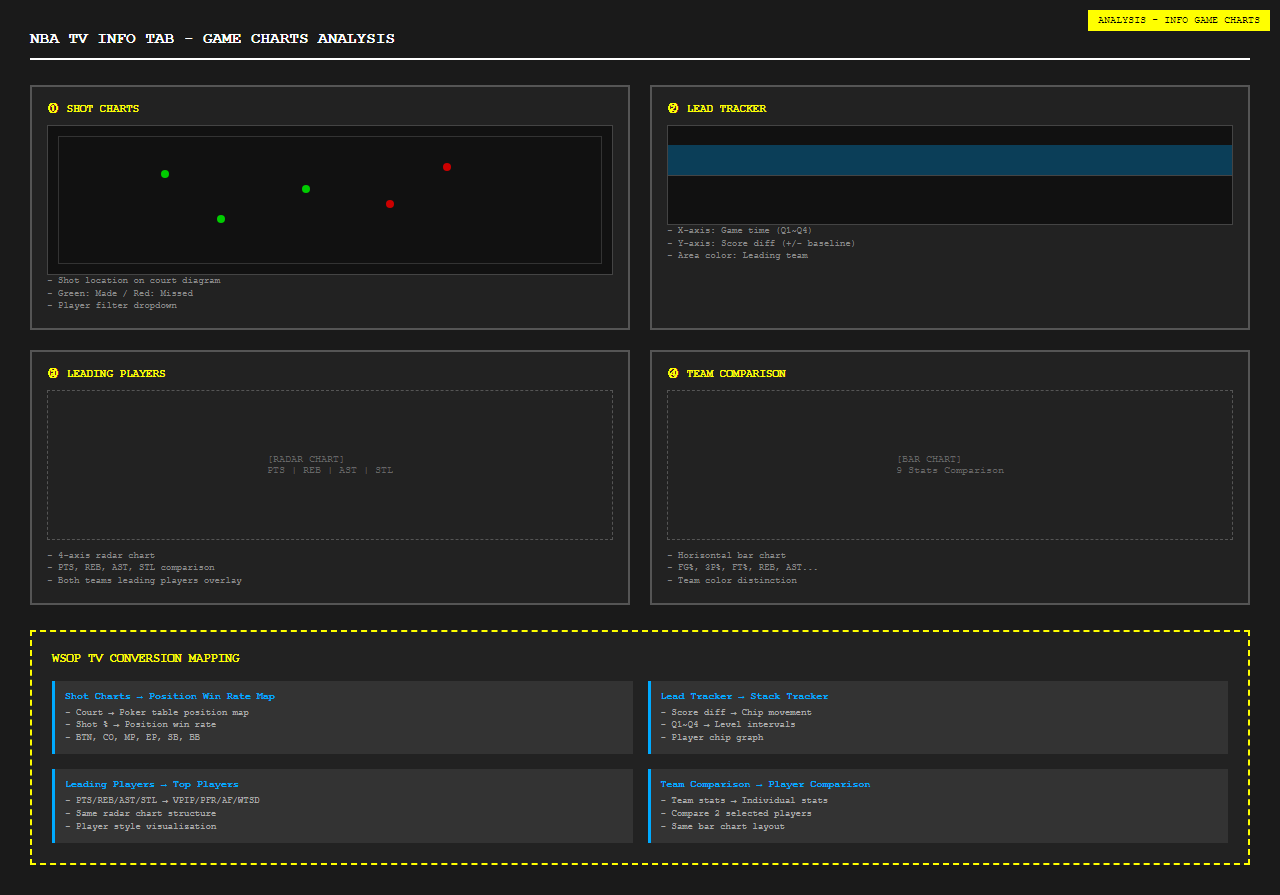
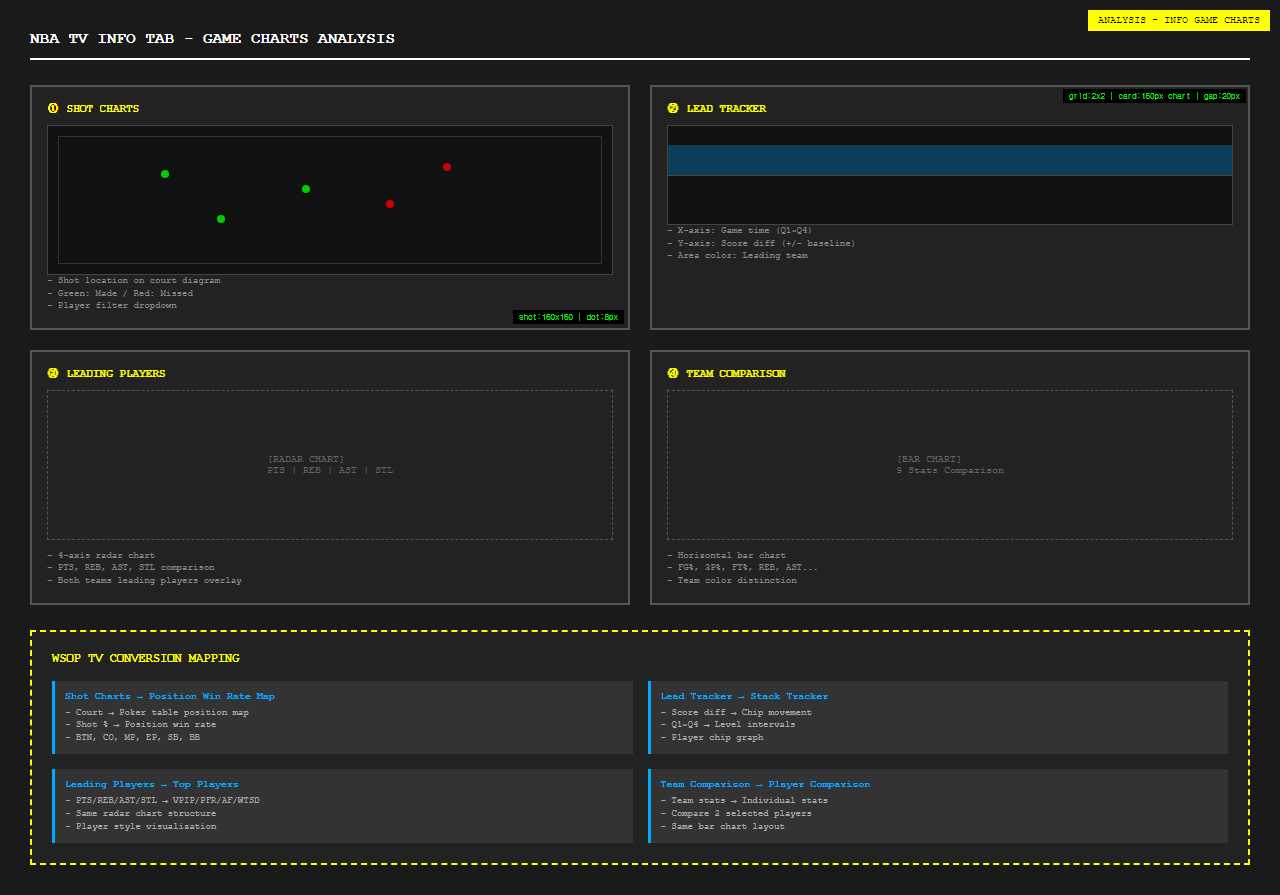
feat(mockups): 나머지 분석 목업에 픽셀 크기 오버레이 추가 📐
- 04-multiview-selector: label:30px | btn:40x40 | gap:5px
- 05-multiview-layout: grid:50%/50% | h:70vh | gap:4px
- 07-info-boxscore: 18cols | row:30px | tab:35px
- 08-info-gamecharts: grid:2x2 | card:150px chart
- 09-info-playbyplay: tab:35px | opt:35px | row:40px
- 10-modal-keyplays: modal:400px | header:45px | thumb:100x60
- 11-keyplays-player: video:250px | ctrl:50px | nav-btn:40px
- 12-player-controls: btn:45x45 | play:44x44 | ctrl:36x36

diff --git a/docs/mockups/nbatv-analysis/05-multiview-layout-analysis.html b/docs/mockups/nbatv-analysis/05-multiview-layout-analysis.html
@@ -118,6 +118,19 @@
       border: 1px solid #fff;
     }
 
+    /* ========== PIXEL SIZE LABELS ========== */
+    .px-label {
+      position: absolute;
+      background: #000;
+      color: #0f0;
+      padding: 2px 6px;
+      font-size: 9px;
+      font-family: monospace;
+      z-index: 300;
+      white-space: nowrap;
+    }
+    .px-label.inner { top: 4px; right: 4px; }
+
     /* ========== SECTION OVERLAYS ========== */
     .page-wrapper {
       position: relative;
@@ -309,9 +322,11 @@
       <em style="color:#666">WSOP: Same Structure</em>
     </div>
 
-    <div class="multiview-container">
+    <div class="multiview-container" style="position:relative;">
+      <div class="px-label inner">grid:50%/50% | h:70vh | gap:4px | bottom:70px</div>
       <!-- Main Video -->
-      <div class="video-cell">
+      <div class="video-cell" style="position:relative;">
+        <div class="px-label" style="top:auto;bottom:4px;right:4px;">cell-header:45px | cta:40px</div>
         <div class="cell-header">
           <div class="cell-title">CLIPPERS @ BULLS</div>
           <div class="cell-subtitle">Bulls (In-Arena) ⏱</div>

diff --git a/docs/mockups/nbatv-analysis/08-info-gamecharts-analysis.html b/docs/mockups/nbatv-analysis/08-info-gamecharts-analysis.html
@@ -136,6 +136,19 @@
       color: #aaa;
       line-height: 1.4;
     }
+
+    /* ========== PIXEL SIZE LABELS ========== */
+    .px-label {
+      position: absolute;
+      background: #000;
+      color: #0f0;
+      padding: 2px 6px;
+      font-size: 9px;
+      font-family: monospace;
+      z-index: 300;
+      white-space: nowrap;
+    }
+    .px-label.inner { top: 4px; right: 4px; }
   </style>
 </head>
 <body>
@@ -143,9 +156,11 @@
 
   <div class="page-title">NBA TV INFO TAB - GAME CHARTS ANALYSIS</div>
 
-  <div class="charts-grid">
+  <div class="charts-grid" style="position:relative;">
+    <div class="px-label inner">grid:2x2 | card:150px chart | gap:20px</div>
     <!-- Shot Charts -->
-    <div class="chart-card">
+    <div class="chart-card" style="position:relative;">
+      <div class="px-label" style="top:auto;bottom:4px;right:4px;">shot:150x150 | dot:8px</div>
       <div class="chart-title">① SHOT CHARTS</div>
       <div class="shot-chart">
         <div class="court-outline"></div>

diff --git a/docs/mockups/nbatv-analysis/07-info-boxscore-analysis.html b/docs/mockups/nbatv-analysis/07-info-boxscore-analysis.html
@@ -134,6 +134,19 @@
     .legend-color.player { background: rgba(0,170,255,0.3); }
     .legend-color.scoring { background: rgba(0,204,0,0.3); }
     .legend-color.other { background: rgba(255,136,0,0.3); }
+
+    /* ========== PIXEL SIZE LABELS ========== */
+    .px-label {
+      position: absolute;
+      background: #000;
+      color: #0f0;
+      padding: 2px 6px;
+      font-size: 9px;
+      font-family: monospace;
+      z-index: 300;
+      white-space: nowrap;
+    }
+    .px-label.inner { top: 4px; right: 4px; }
   </style>
 </head>
 <body>
@@ -142,7 +155,8 @@
   <div class="page-title">NBA TV INFO TAB - BOX SCORE TABLE ANALYSIS</div>
 
   <div class="content-grid">
-    <div class="diagram-panel">
+    <div class="diagram-panel" style="position:relative;">
+      <div class="px-label inner">18cols | row:30px | tab:35px | cell:4-8px pad</div>
       <div class="panel-title">BOX SCORE TABLE STRUCTURE</div>
 
       <div class="team-tabs">

diff --git a/docs/mockups/nbatv-analysis/10-modal-keyplays-analysis.html b/docs/mockups/nbatv-analysis/10-modal-keyplays-analysis.html
@@ -133,6 +133,20 @@
       color: #aaa;
       line-height: 1.4;
     }
+
+    /* ========== PIXEL SIZE LABELS ========== */
+    .px-label {
+      position: absolute;
+      background: #000;
+      color: #0f0;
+      padding: 2px 6px;
+      font-size: 9px;
+      font-family: monospace;
+      z-index: 300;
+      white-space: nowrap;
+    }
+    .px-label.inner { top: 4px; right: 4px; }
+
     /* Card Structure Diagram */
     .card-structure {
       margin-top: 15px;
@@ -166,7 +180,8 @@
   <div class="page-title">NBA TV KEY PLAYS MODAL - STRUCTURE ANALYSIS</div>
 
   <div class="content-grid">
-    <div class="diagram-panel">
+    <div class="diagram-panel" style="position:relative;">
+      <div class="px-label inner">modal:400px | header:45px | card:80px | thumb:100x60</div>
       <div class="panel-title">KEY PLAYS MODAL UI</div>
 
       <div class="modal-header">

diff --git a/docs/mockups/nbatv-analysis/04-multiview-selector-analysis.html b/docs/mockups/nbatv-analysis/04-multiview-selector-analysis.html
@@ -115,6 +115,19 @@
       border: 1px solid #fff;
     }
 
+    /* ========== PIXEL SIZE LABELS ========== */
+    .px-label {
+      position: absolute;
+      background: #000;
+      color: #0f0;
+      padding: 2px 6px;
+      font-size: 9px;
+      font-family: monospace;
+      z-index: 300;
+      white-space: nowrap;
+    }
+    .px-label.inner { top: 4px; right: 4px; }
+
     /* ========== SECTION OVERLAYS ========== */
     .selector-wrapper {
       position: relative;
@@ -226,7 +239,8 @@
       <em style="color:#666">WSOP: Multi-Table View Selector</em>
     </div>
 
-    <div class="multiview-selector">
+    <div class="multiview-selector" style="position:relative;">
+      <div class="px-label inner">label:30px | btn:40x40 | gap:5px</div>
       <div class="selector-label">MultiView</div>
       <div class="layout-buttons">
         <button class="layout-btn">

diff --git a/docs/mockups/nbatv-analysis/12-player-controls-analysis.html b/docs/mockups/nbatv-analysis/12-player-controls-analysis.html
@@ -139,6 +139,19 @@
       color: #0c0;
       font-style: italic;
     }
+
+    /* ========== PIXEL SIZE LABELS ========== */
+    .px-label {
+      position: absolute;
+      background: #000;
+      color: #0f0;
+      padding: 2px 6px;
+      font-size: 9px;
+      font-family: monospace;
+      z-index: 300;
+      white-space: nowrap;
+    }
+    .px-label.inner { top: 4px; right: 4px; }
   </style>
 </head>
 <body>
@@ -147,7 +160,8 @@
   <div class="page-title">NBA TV PLAYER CONTROLS - BUTTON ANALYSIS</div>
 
   <!-- Playback Controls -->
-  <div class="controls-section">
+  <div class="controls-section" style="position:relative;">
+    <div class="px-label inner">btn:45x45 | play:44x44 | ctrl:36x36 | vol:80x4</div>
     <div class="section-title">PLAYBACK CONTROLS (LEFT GROUP)</div>
     <div class="button-grid">
       <div class="button-item">

diff --git a/docs/mockups/nbatv-analysis/11-keyplays-player-analysis.html b/docs/mockups/nbatv-analysis/11-keyplays-player-analysis.html
@@ -187,6 +187,19 @@
       font-size: 9px;
       color: #aaa;
     }
+
+    /* ========== PIXEL SIZE LABELS ========== */
+    .px-label {
+      position: absolute;
+      background: #000;
+      color: #0f0;
+      padding: 2px 6px;
+      font-size: 9px;
+      font-family: monospace;
+      z-index: 300;
+      white-space: nowrap;
+    }
+    .px-label.inner { top: 4px; right: 4px; }
   </style>
 </head>
 <body>
@@ -195,7 +208,8 @@
   <div class="page-title">NBA TV KEY PLAYS PLAYER VIEW - ANALYSIS</div>
 
   <div class="content-grid">
-    <div class="diagram-panel">
+    <div class="diagram-panel" style="position:relative;">
+      <div class="px-label inner">video:250px | ctrl:50px | nav-btn:40px | label:25px</div>
       <div class="panel-title">KEY PLAYS PLAYER STRUCTURE</div>
 
       <div class="player-area">

diff --git a/docs/mockups/nbatv-analysis/09-info-playbyplay-analysis.html b/docs/mockups/nbatv-analysis/09-info-playbyplay-analysis.html
@@ -146,6 +146,19 @@
       color: #aaa;
       line-height: 1.4;
     }
+
+    /* ========== PIXEL SIZE LABELS ========== */
+    .px-label {
+      position: absolute;
+      background: #000;
+      color: #0f0;
+      padding: 2px 6px;
+      font-size: 9px;
+      font-family: monospace;
+      z-index: 300;
+      white-space: nowrap;
+    }
+    .px-label.inner { top: 4px; right: 4px; }
   </style>
 </head>
 <body>
@@ -154,7 +167,8 @@
   <div class="page-title">NBA TV INFO TAB - PLAY-BY-PLAY ANALYSIS</div>
 
   <div class="content-grid">
-    <div class="diagram-panel">
+    <div class="diagram-panel" style="position:relative;">
+      <div class="px-label inner">tab:35px | opt:35px | row:40px | time:60px</div>
       <div class="panel-title">PLAY-BY-PLAY STRUCTURE</div>
 
       <div class="quarter-tabs">
